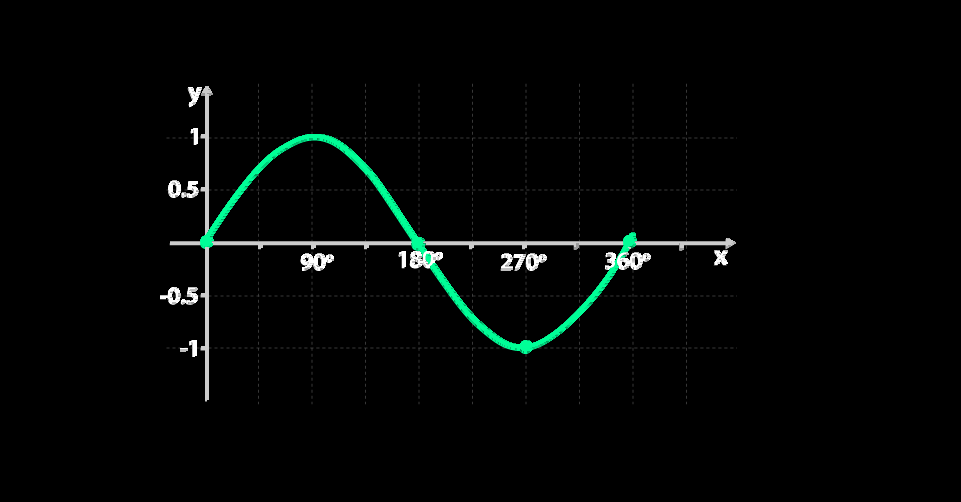
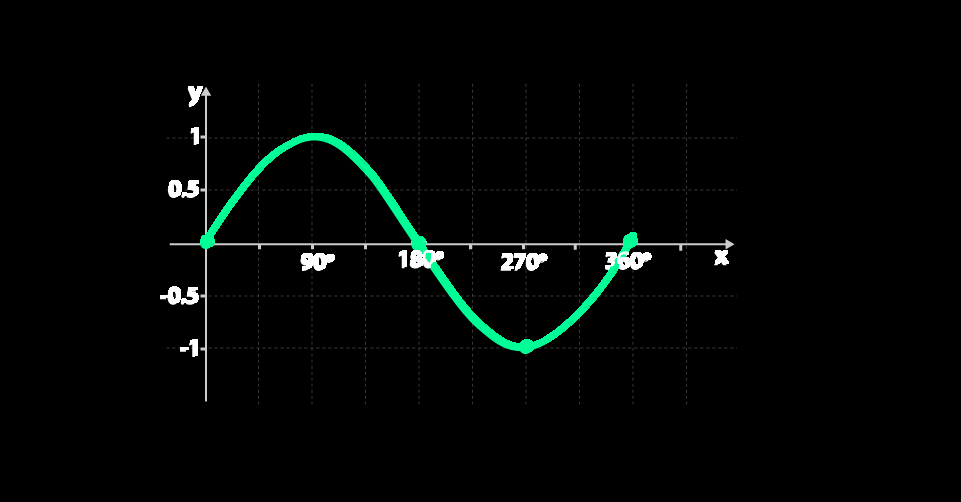
best bold so far

diff --git a/MyCanvas.java b/MyCanvas.java
@@ -74,6 +74,7 @@ public class MyCanvas extends Canvas{
         catch (FileNotFoundException e) {
 			e.printStackTrace();
         }
+
         /*  
         Read the second line from the text file
 
@@ -164,7 +165,7 @@ public class MyCanvas extends Canvas{
                 for (int x = 0; x < resizedWidth; x++) {
                     int rgba = resizedImage.getRGB(x, y);
                     Color col = new Color(rgba, true);
-                    if ((col.getRed() < 32) || (col.getGreen() < 110)  || (col.getBlue() < 32)){
+                    if ((col.getRed() < 32) || (col.getGreen() < 32)  || (col.getBlue() < 32)){
                         col = new Color(col.getRed(),
                                         col.getGreen(),
                                         col.getBlue());
@@ -178,6 +179,21 @@ public class MyCanvas extends Canvas{
                             }
                         }
                     }
+
+                    /*else if (((col.getRed() > 32) && (col.getRed() < 110)) || ((col.getRed() > 32) && (col.getGreen() < 110))  || ((col.getBlue() < 32) && (col.getRed() < 110))){
+                        col = new Color(col.getRed(),
+                                        col.getGreen(),
+                                        col.getBlue());
+                        
+                        for(int i = 1; i <= bold; i++){
+                        int down = y - i;
+                        resizedImage.setRGB(x, down, col.getRGB());
+                            for(int j = 1; j <= bold; j++){
+                                int forward = x + j;
+                                resizedImage.setRGB(forward, down, col.getRGB());
+                            }
+                        }
+                    }*/
                 }
             }
         }
